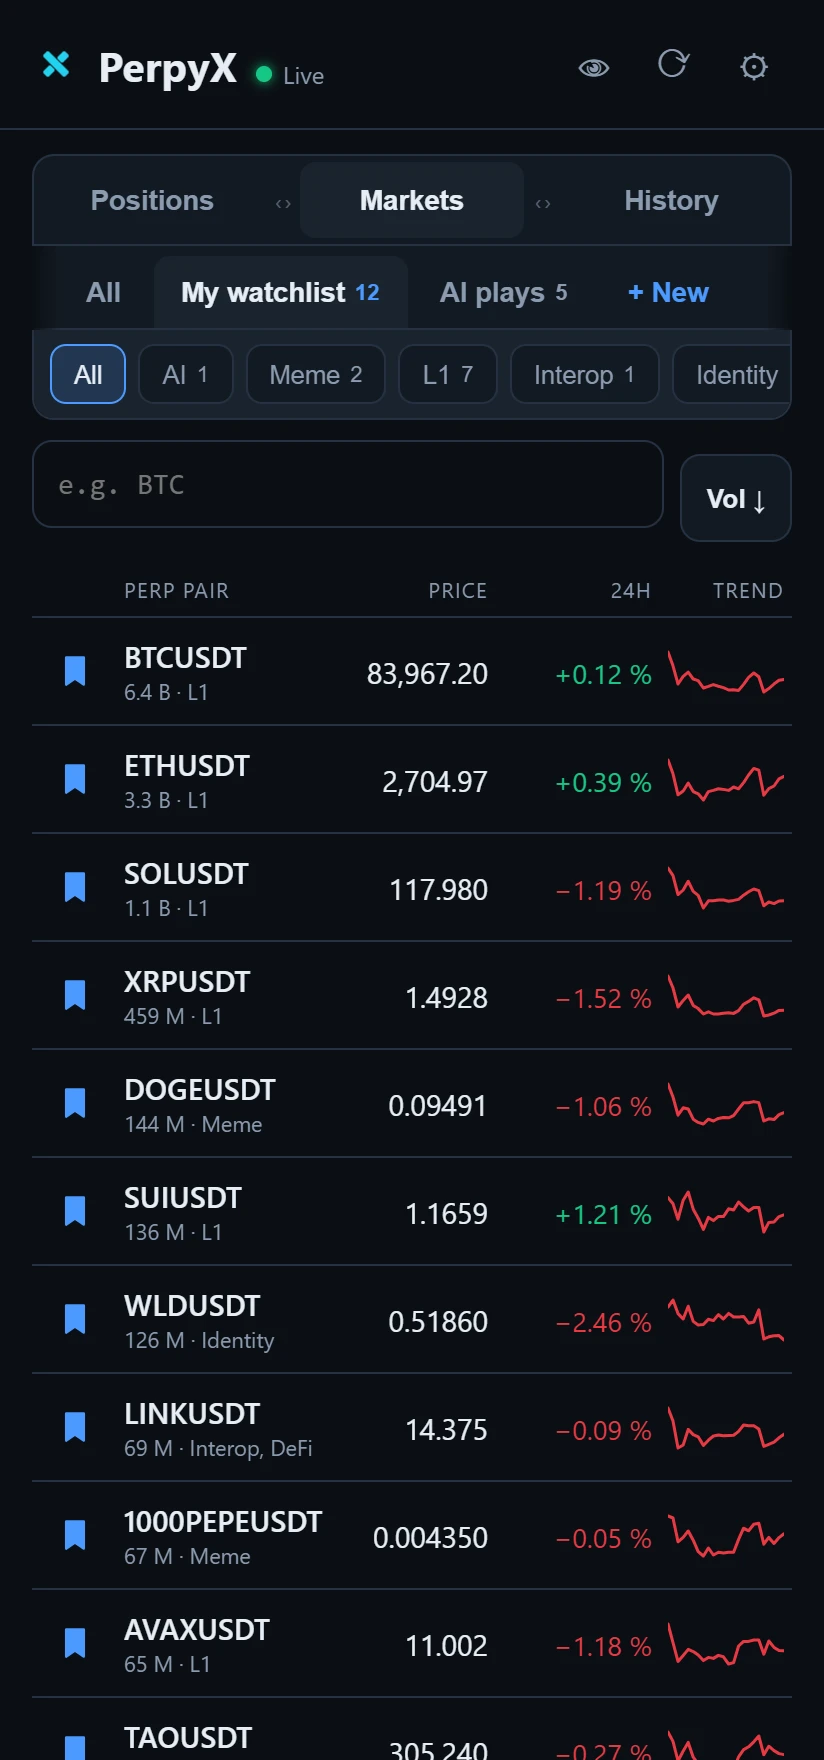
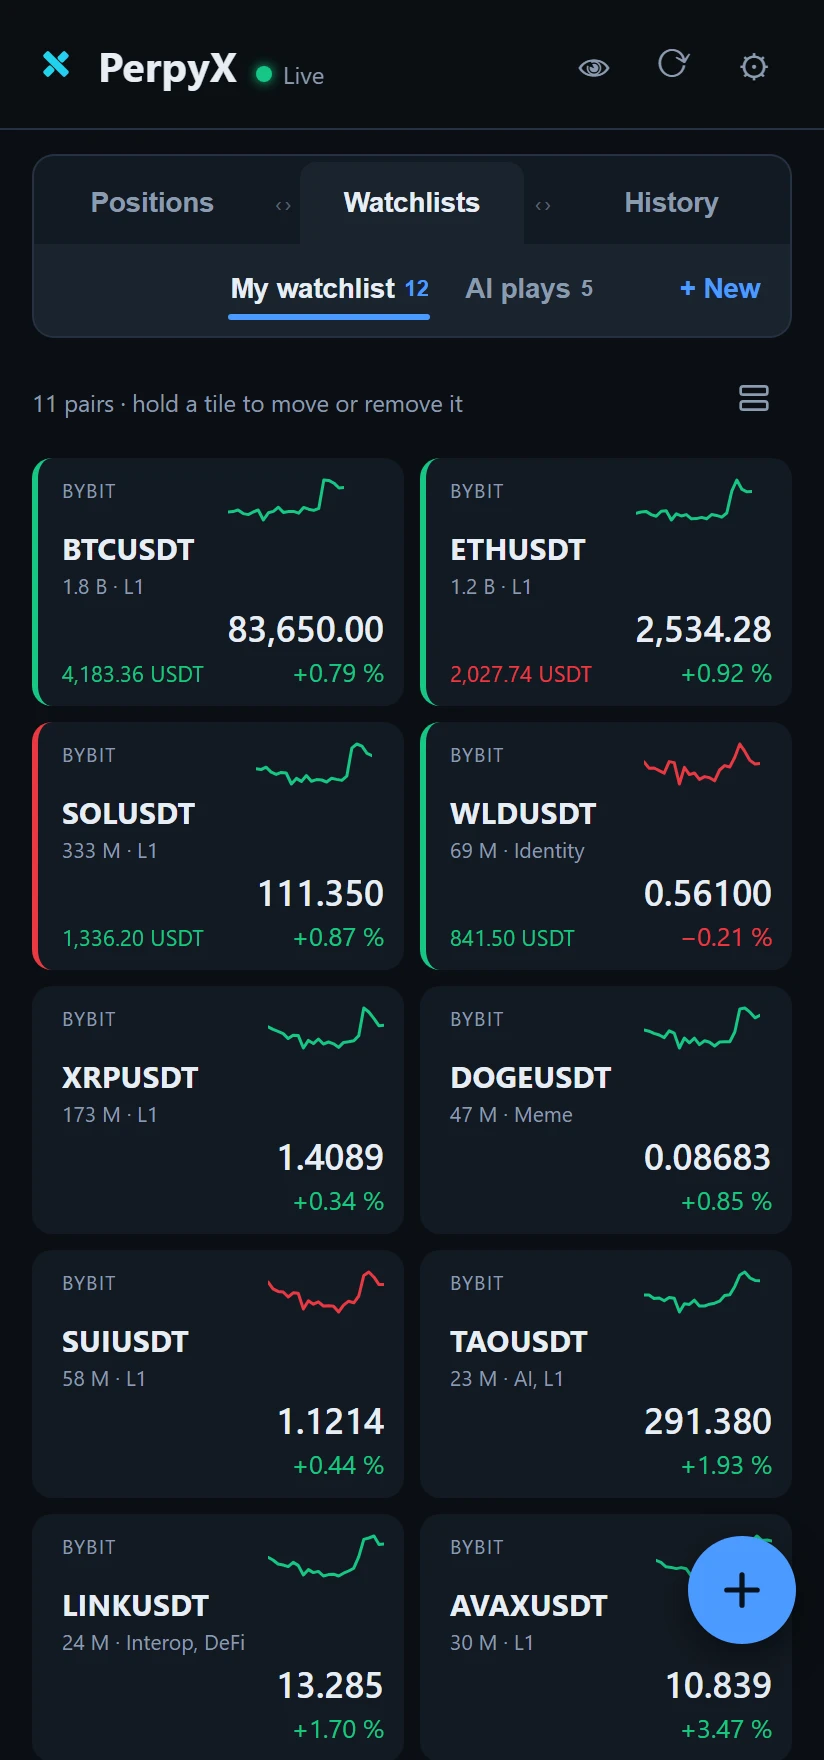
Web: nove snimky (Watchlists, Historie s castecnymi vystupy), texty, beta perks
- Snimky z v0.49: dlazdice Watchlists, karta obchodu se tremi castecnymi
  vystupy, prohlidka obchodu se ztlumenym okolim (snimky-web.py hleda
  ve skutecnych svickach usek s rustem, vystupy na ruznych svickach).
- Texty: superfast, live watchlists, historie po obchodech, rychly alarm
  podrzenim, stitky bez prekryvu; v planu statistiky obchodu.
- Beta: early testers ziskaji vyrazne vyhody po spusteni Pro.

Claude-Session: https://claude.ai/code/session_015bSMKh62UKs2XyHsFmV9vj

diff --git a/web/public/index.html b/web/public/index.html
@@ -4,16 +4,16 @@
 <meta charset="utf-8">
 <meta name="viewport" content="width=device-width, initial-scale=1">
 <title>PerpyX — your perpetuals at a glance</title>
-<meta name="description" content="PerpyX is a read-only Android app for monitoring crypto perpetual positions — Bybit today, Binance, Hyperliquid and OKX next: live PnL, SL/TP ladders, funding, push price alerts even with the screen off, watchlists and a touch-first chart. Join the beta.">
+<meta name="description" content="PerpyX is a superfast Android app for monitoring crypto perpetual positions — Bybit today, Binance, Hyperliquid and OKX next: live PnL, SL/TP ladders, funding, push price alerts even with the screen off, live watchlists, trade history with every partial exit and a touch-first chart. Join the beta.">
 <meta name="theme-color" content="#0b0f14">
 <link rel="icon" href="/icon-192.png" type="image/png">
 <link rel="apple-touch-icon" href="/icon-192.png">
 <meta property="og:title" content="PerpyX — your perpetuals at a glance">
-<meta property="og:description" content="A read-only position monitor for Android. Live PnL, SL/TP ladders, funding, push price alerts, watchlists and a touch-first chart.">
-<meta property="og:image" content="https://perpyx.com/img/graf-fold.webp?v=2">
+<meta property="og:description" content="A superfast position monitor for Android. Live PnL, SL/TP ladders, funding, push price alerts, live watchlists, trade history and a touch-first chart.">
+<meta property="og:image" content="https://perpyx.com/img/graf-fold.webp?v=3">
 <meta property="og:type" content="website">
 <link rel="canonical" href="https://perpyx.com/">
-<link rel="stylesheet" href="/style.css?v=8">
+<link rel="stylesheet" href="/style.css?v=9">
 </head>
 <body>
 
@@ -55,10 +55,10 @@
       <div>
         <span class="eyebrow"><span class="dot"></span>Private beta · Android</span>
         <h1>Your perpetuals, <span class="grad">at a glance.</span></h1>
-        <p class="lead">PerpyX is a fast, read-only position monitor for traders who check their
+        <p class="lead">PerpyX is a superfast position monitor for traders who check their
           positions forty times a day. Live PnL, stop-loss and take-profit ladders, honest
-          funding numbers, price alerts that reach you even with the screen off — and a chart
-          you can actually draw on with a thumb.</p>
+          funding numbers, live watchlists, every trade with all its partial exits, price alerts
+          that reach you even with the screen off — and a chart you can actually draw on with a thumb.</p>
         <div class="hero-cta">
           <a class="btn" href="#beta">Join the beta</a>
           <a class="btn ghost" href="#features">See what it does</a>
@@ -78,8 +78,8 @@
         </div>
       </div>
       <div class="shots">
-        <div class="phone back"><img src="/img/trhy.webp?v=2" width="824" height="1760" alt="PerpyX markets list with 24-hour trend sparklines"></div>
-        <div class="phone front"><img src="/img/pozice.webp?v=2" width="824" height="1760" alt="PerpyX positions screen with live PnL and stop-loss / take-profit ladders"></div>
+        <div class="phone back"><img src="/img/trhy.webp?v=3" width="824" height="1760" alt="PerpyX watchlist tiles with live prices and 24-hour sparklines"></div>
+        <div class="phone front"><img src="/img/pozice.webp?v=3" width="824" height="1760" alt="PerpyX positions screen with live PnL and stop-loss / take-profit ladders"></div>
       </div>
     </div>
   </section>
@@ -110,12 +110,12 @@
         <div class="card">
           <div class="icon"><svg viewBox="0 0 24 24" fill="none" stroke="currentColor" stroke-width="2" stroke-linecap="round" stroke-linejoin="round"><path d="M6 8a6 6 0 0 1 12 0c0 7 3 9 3 9H3s3-2 3-9"/><path d="M10.3 21a1.94 1.94 0 0 0 3.4 0"/></svg></div>
           <h3>Alerts, even with the screen off</h3>
-          <p>On a price level, on a trendline you drew, or at a point in time. Our server watches the price and sends a push notification; tap it and the chart opens with your position.</p>
+          <p>Hold your finger on the chart and the alert is set — or put one on a trendline you drew, or at a point in time. Our server watches the price and sends a push notification; tap it and the chart opens with your position.</p>
         </div>
         <div class="card">
           <div class="icon"><svg viewBox="0 0 24 24" fill="none" stroke="currentColor" stroke-width="2" stroke-linecap="round" stroke-linejoin="round"><path d="M6 3h12v18l-6-4-6 4z"/></svg></div>
-          <h3>Watchlists &amp; categories</h3>
-          <p>Every perpetual on the exchange, filtered by category — AI, L1, DeFi, memes and more — plus your own lists you swipe between. Sort by volume, 24h change, funding or open interest.</p>
+          <h3>Live watchlists</h3>
+          <p>Your own lists as tiles with live prices and 24h sparklines — superfast, swipe between them, add any pair in a second, hold a tile to reorder. Your open positions show right on the tile.</p>
         </div>
         <div class="card">
           <div class="icon"><svg viewBox="0 0 24 24" fill="none" stroke="currentColor" stroke-width="2" stroke-linecap="round"><path d="M12 3v6M12 15v6M3 12h6M15 12h6"/><circle cx="12" cy="12" r="1.5" fill="currentColor"/></svg></div>
@@ -125,12 +125,12 @@
         <div class="card">
           <div class="icon"><svg viewBox="0 0 24 24" fill="none" stroke="currentColor" stroke-width="2" stroke-linecap="round" stroke-linejoin="round"><path d="M3 3v18h18"/><path d="m7 14 4-4 3 3 5-6"/></svg></div>
           <h3>A real chart</h3>
-          <p>Entry, SL, TP, liquidation and open orders on the chart, fills on the candles they happened in, live PnL line, plus RSI, EMA, Bollinger, volume profile and more. Hide any layer for a clean view.</p>
+          <p>Entry, SL, TP, liquidation and open orders with clean labels that never overlap, every fill marked at its exact price, live PnL line, plus RSI, EMA, Bollinger, volume profile and more. Hide any layer for a clean view.</p>
         </div>
         <div class="card">
           <div class="icon"><svg viewBox="0 0 24 24" fill="none" stroke="currentColor" stroke-width="2" stroke-linecap="round" stroke-linejoin="round"><path d="M12 8v4l3 3"/><path d="M3.05 11a9 9 0 1 1 .5 4"/><path d="M3 4v5h5"/></svg></div>
           <h3>Trade history</h3>
-          <p>Your closed trades with PnL — tap one to see its chart with every entry and exit marked where it actually happened.</p>
+          <p>One trade, one card — every partial exit on its own line with size, price, % and PnL, plus the total. Tap it and the chart zooms right into the trade, everything around it fades out.</p>
         </div>
         <div class="card">
           <div class="icon"><svg viewBox="0 0 24 24" fill="none" stroke="currentColor" stroke-width="2" stroke-linecap="round" stroke-linejoin="round"><path d="M17.5 19a4.5 4.5 0 1 0-1.4-8.8A6 6 0 0 0 4.5 12 3.5 3.5 0 0 0 6 19z"/></svg></div>
@@ -149,13 +149,17 @@
         <p>Designed and tested on a foldable: a compact list on the cover screen, a full-width chart when you open it up.</p>
       </div>
       <div class="gallery tri">
-        <figure><div class="phone"><img src="/img/pozice.webp?v=2" width="824" height="1760" loading="lazy" alt="Positions list with live PnL and SL/TP ladders"></div><figcaption>Positions</figcaption></figure>
-        <figure><div class="phone"><img src="/img/trhy.webp?v=2" width="824" height="1760" loading="lazy" alt="Markets with your own watchlists and category filters"></div><figcaption>Watchlists</figcaption></figure>
-        <figure><div class="phone"><img src="/img/graf.webp?v=2" width="824" height="1760" loading="lazy" alt="Chart on a phone screen"></div><figcaption>Chart</figcaption></figure>
+        <figure><div class="phone"><img src="/img/pozice.webp?v=3" width="824" height="1760" loading="lazy" alt="Positions list with live PnL and SL/TP ladders"></div><figcaption>Positions</figcaption></figure>
+        <figure><div class="phone"><img src="/img/trhy.webp?v=3" width="824" height="1760" loading="lazy" alt="Watchlist tiles with live prices, sparklines and open positions"></div><figcaption>Watchlists</figcaption></figure>
+        <figure><div class="phone"><img src="/img/graf.webp?v=3" width="824" height="1760" loading="lazy" alt="Chart on a phone screen"></div><figcaption>Chart</figcaption></figure>
+      </div>
+      <div class="gallery tri dva">
+        <figure><div class="phone"><img src="/img/historie-seznam.webp?v=3" width="824" height="1760" loading="lazy" alt="Trade history with every partial exit on its own line and the total"></div><figcaption>Trade history</figcaption></figure>
+        <figure><div class="phone"><img src="/img/historie.webp?v=3" width="824" height="1760" loading="lazy" alt="A closed trade on the chart, entries and exits marked, the rest faded out"></div><figcaption>Trade on the chart</figcaption></figure>
       </div>
       <div class="gallery duo">
-        <figure><div class="phone"><img src="/img/graf-fold.webp?v=2" width="1346" height="1682" loading="lazy" alt="Chart on an unfolded screen with entry, SL, TP, orders and indicators"></div><figcaption>Chart, unfolded</figcaption></figure>
-        <figure><div class="phone"><img src="/img/alarm.webp?v=2" width="1346" height="1682" loading="lazy" alt="Setting a price alert on the chart"></div><figcaption>Price alert</figcaption></figure>
+        <figure><div class="phone"><img src="/img/graf-fold.webp?v=3" width="1346" height="1682" loading="lazy" alt="Chart on an unfolded screen with entry, SL, TP, orders and indicators"></div><figcaption>Chart, unfolded</figcaption></figure>
+        <figure><div class="phone"><img src="/img/alarm.webp?v=3" width="1346" height="1682" loading="lazy" alt="Setting a price alert on the chart"></div><figcaption>Price alert</figcaption></figure>
       </div>
     </div>
   </section>
@@ -193,6 +197,7 @@
         <h2>Where it's heading.</h2>
       </div>
       <div class="roadmap">
+        <div class="card"><span class="tag">Next</span><h3>Trade stats</h3><p>Deeper stats and evaluation of your trades — what works for you and what doesn't.</p></div>
         <div class="card"><span class="tag">Next</span><h3>More exchanges</h3><p>Binance, Hyperliquid and OKX — all your positions across exchanges in one list.</p></div>
         <div class="card"><span class="tag">Next</span><h3>RSI divergences</h3><p>Bullish and bearish divergences marked right on the chart.</p></div>
         <div class="card"><span class="tag">Planned</span><h3>Divergence scanner</h3><p>Scans your watchlists on the server and pings you when a setup appears.</p></div>
@@ -217,7 +222,7 @@
         <div>
           <div class="kicker">Private beta</div>
           <h2>Want in early?</h2>
-          <p>Leave your email and we'll invite you when the next beta round opens. Android only for now. Beta testers can report a bug or an idea with screenshots right from the app. No spam — just beta invites and major updates.</p>
+          <p>Leave your email and we'll invite you when the next beta round opens. Android only for now. <strong>Early testers will get serious perks once PerpyX goes Pro.</strong> Beta testers can report a bug or an idea with screenshots right from the app. No spam — just beta invites and major updates.</p>
         </div>
         <form id="signup" novalidate>
           <div class="field">

diff --git a/web/public/style.css b/web/public/style.css
@@ -148,6 +148,8 @@ h2 { font-size: clamp(1.7rem, 3.4vw, 2.3rem); line-height: 1.15; margin: 0 0 12p
 .gallery { display: grid; gap: 20px; align-items: start; }
 .gallery.tri { grid-template-columns: repeat(3, 1fr); }
 .gallery.duo { grid-template-columns: 1fr 1fr; margin-top: 28px; }
+/* Dva snímky telefonu ve stejné velikosti jako v řádku po třech, uprostřed. */
+.gallery.tri.dva { grid-template-columns: repeat(2, calc((100% - 40px) / 3)); justify-content: center; margin-top: 28px; }
 .gallery figure { margin: 0; }
 .gallery figcaption { color: var(--muted); font-size: 0.92rem; margin-top: 12px; text-align: center; }
 
@@ -171,7 +173,7 @@ h2 { font-size: clamp(1.7rem, 3.4vw, 2.3rem); line-height: 1.15; margin: 0 0 12p
 .flow .step.lock { border-color: rgba(34, 211, 238, 0.45); }
 
 /* ---- plán ---- */
-.roadmap { display: grid; grid-template-columns: repeat(4, 1fr); gap: 16px; }
+.roadmap { display: grid; grid-template-columns: repeat(5, 1fr); gap: 16px; }
 .roadmap .card { padding: 20px; }
 .roadmap .tag { display: inline-block; font-size: 0.78rem; font-weight: 650; padding: 3px 9px;
   border-radius: 999px; color: #9fe9f7; background: rgba(34, 211, 238, 0.1);
@@ -231,6 +233,7 @@ footer a:hover { color: var(--text); }
   .shots { max-width: 520px; margin-inline: auto; }
   .grid { grid-template-columns: 1fr 1fr; }
   .roadmap { grid-template-columns: 1fr 1fr; }
+  .roadmap .card:first-child { grid-column: 1 / -1; }
   .gallery.duo { grid-template-columns: 1fr; }
   .beta { padding: 32px 24px; }
 }
@@ -239,6 +242,7 @@ footer a:hover { color: var(--text); }
   section { padding: 52px 0; }
   .grid, .roadmap { grid-template-columns: 1fr; }
   .gallery.tri { gap: 10px; }
+  .gallery.tri.dva { grid-template-columns: repeat(2, calc((100% - 20px) / 3)); }
   .field { flex-direction: column; }
   .top .btn.small { display: none; }
 }

diff --git a/tools/snimky-web.py b/tools/snimky-web.py
@@ -89,22 +89,44 @@ for sym, strana, vel, k, sl, tp, dm in NAVRH:
              'reduceOnly': False, 'createdTime': str(TED - 3600000)},
         ]
 
-# Uzavřený obchod na BTC pro snímek Historie: dva nákupy u dna, prodej
-# u vrcholu — ze skutečných svíček, aby značky seděly na grafu. Leží před
-# plněními současné pozice (52 h a 19 h zpátky), takže se nepletou.
-dno_h = min(svicky[-44:-30], key=lambda s: s[2])
-dno_h2 = min(svicky[-30:-24], key=lambda s: s[2])
-vrch_h = max(svicky[-24:-14], key=lambda s: s[1])
+# Uzavřený obchod na BTC pro snímek Historie: dva nákupy u dna a **tři
+# částečné výstupy** u vrcholu (od v0.38 jedna karta s řádkem na výstup)
+# — ze skutečných svíček, aby značky seděly na grafu. Leží před plněními
+# současné pozice (52 h a 19 h zpátky), takže se nepletou.
+# Úsek s růstem: minimum a po něm (aspoň 6 svíček) co nejvyšší maximum,
+# ať je obchod vítězný bez ohledu na to, kam trh zrovna šel.
+usek = svicky[-44:-15]
+i_dno, i_vrch = max(((i, j) for i in range(len(usek)) for j in range(i + 6, len(usek))),
+                    key=lambda ij: usek[ij[1]][1] - usek[ij[0]][2])
+dno_h, vrch_h = usek[i_dno], usek[i_vrch]
+dno_h2 = usek[min(i_dno + 2, i_vrch - 4)]
 nakupy_h = [(dno_h[0], round(dno_h[2] + 0.15 * (dno_h[1] - dno_h[2]), 1), 0.03),
-            (dno_h2[0], round(dno_h2[2] + 0.2 * (dno_h2[1] - dno_h2[2]), 1), 0.02)]
-prodej_h = (vrch_h[0] + 3600000, round(vrch_h[1] - 0.15 * (vrch_h[1] - vrch_h[2]), 1))
+            (dno_h2[0], round(dno_h2[2] + 0.25 * (dno_h2[1] - dno_h2[2]), 1), 0.02)]
 vstup_h = sum(c * q for _, c, q in nakupy_h) / 0.05
+# Tři částečné výstupy na třech různých svíčkách kolem vrcholu
+v1, v2, v3 = usek[i_vrch - 2], usek[i_vrch], usek[min(i_vrch + 2, len(usek) - 1)]
+prodeje_h = [(v1[0] + 1800000, round(v1[1] - 0.25 * (v1[1] - v1[2]), 1), 0.02),
+             (v2[0] + 1800000, round(v2[1] - 0.1 * (v2[1] - v2[2]), 1), 0.015),
+             (v3[0] + 1800000, round(v3[1] - 0.3 * (v3[1] - v3[2]), 1), 0.015)]
 uzavrene = [{
-    'symbol': 'BTCUSDT', 'orderId': 'hist-btc', 'side': 'Sell', 'qty': '0.05', 'closedSize': '0.05',
-    'avgEntryPrice': f'{vstup_h:.1f}', 'avgExitPrice': str(prodej_h[1]),
-    'closedPnl': f'{(prodej_h[1] - vstup_h) * 0.05:.4f}', 'cumEntryValue': f'{vstup_h * 0.05:.2f}',
-    'leverage': '5', 'createdTime': str(prodej_h[0]), 'updatedTime': str(prodej_h[0] + 19),
-}]
+    'symbol': 'BTCUSDT', 'orderId': f'hist-btc-{i}', 'side': 'Sell', 'qty': str(q), 'closedSize': str(q),
+    'avgEntryPrice': f'{vstup_h:.1f}', 'avgExitPrice': str(c),
+    'closedPnl': f'{(c - vstup_h) * q:.4f}', 'cumEntryValue': f'{vstup_h * q:.2f}',
+    'leverage': '5', 'createdTime': str(t), 'updatedTime': str(t + 19),
+} for i, (t, c, q) in enumerate(prodeje_h)]
+
+# Druhý, ztrátový obchod na ETH (jeden nákup, jeden výstup) — ať Historie
+# není jen o jednom vítězném obchodu.
+eth_vstup = round(ceny['ETHUSDT'] * 1.021, 2)
+eth_vystup = round(ceny['ETHUSDT'] * 1.012, 2)
+eth_nakup_t = TED - 6 * 86400000
+eth_prodej_t = TED - 5 * 86400000 + 3 * 3600000
+uzavrene.append({
+    'symbol': 'ETHUSDT', 'orderId': 'hist-eth', 'side': 'Sell', 'qty': '0.6', 'closedSize': '0.6',
+    'avgEntryPrice': str(eth_vstup), 'avgExitPrice': str(eth_vystup),
+    'closedPnl': f'{(eth_vystup - eth_vstup) * 0.6:.4f}', 'cumEntryValue': f'{eth_vstup * 0.6:.2f}',
+    'leverage': '5', 'createdTime': str(eth_prodej_t), 'updatedTime': str(eth_prodej_t + 19),
+})
 
 # Kresby na BTC: trendová čára po dvou minimech a vodorovná úroveň u maxima.
 starsi = min(svicky[-44:-24], key=lambda s: s[2])
@@ -139,8 +161,13 @@ seznamy = {'verze': 1, 'aktivni': 'fav', 'seznamy': [
 for i, (cas, cena, mnozstvi) in enumerate(nakupy_h):
     plneni.append({'symbol': 'BTCUSDT', 'side': 'Buy', 'execType': 'Trade', 'execPrice': str(cena),
                    'orderId': f'hist-buy-{i}', 'execQty': str(mnozstvi), 'execTime': str(cas + 1800000)})
-plneni.append({'symbol': 'BTCUSDT', 'side': 'Sell', 'execType': 'Trade', 'execPrice': str(prodej_h[1]),
-               'orderId': 'hist-btc', 'execQty': '0.05', 'execTime': str(prodej_h[0])})
+for i, (cas, cena, mnozstvi) in enumerate(prodeje_h):
+    plneni.append({'symbol': 'BTCUSDT', 'side': 'Sell', 'execType': 'Trade', 'execPrice': str(cena),
+                   'orderId': f'hist-btc-{i}', 'execQty': str(mnozstvi), 'execTime': str(cas)})
+plneni.append({'symbol': 'ETHUSDT', 'side': 'Buy', 'execType': 'Trade', 'execPrice': str(eth_vstup),
+               'orderId': 'hist-eth-buy', 'execQty': '0.6', 'execTime': str(eth_nakup_t)})
+plneni.append({'symbol': 'ETHUSDT', 'side': 'Sell', 'execType': 'Trade', 'execPrice': str(eth_vystup),
+               'orderId': 'hist-eth', 'execQty': '0.6', 'execTime': str(eth_prodej_t)})
 
 podstrc = r"""
 (() => {
@@ -311,11 +338,13 @@ time.sleep(1.2)
 print('okno alarmu:', ev("!document.getElementById('sheetAlarm').hidden"))
 snimek('alarm.webp')
 
-# 6) Historie: uzavřený obchod v grafu se značkami nákupů a prodeje
+# 6) Historie: seznam (obchod s částečnými výstupy) a prohlídka obchodu
+#    v grafu — obchod uprostřed, okolí ztlumené.
 spust(412, 880)
 ev("document.querySelector('[data-tab=history]').click()")
-time.sleep(4)
-ev("document.querySelector('.trade') && document.querySelector('.trade').click()")
+time.sleep(5)
+snimek('historie-seznam.webp')
+ev("""[...document.querySelectorAll('.trade')].find((k) => k.textContent.includes('BTCUSDT')).click()""")
 time.sleep(7)
 print('graf obchodu:', ev("!document.getElementById('viewChart').hidden"))
 snimek('historie.webp')
